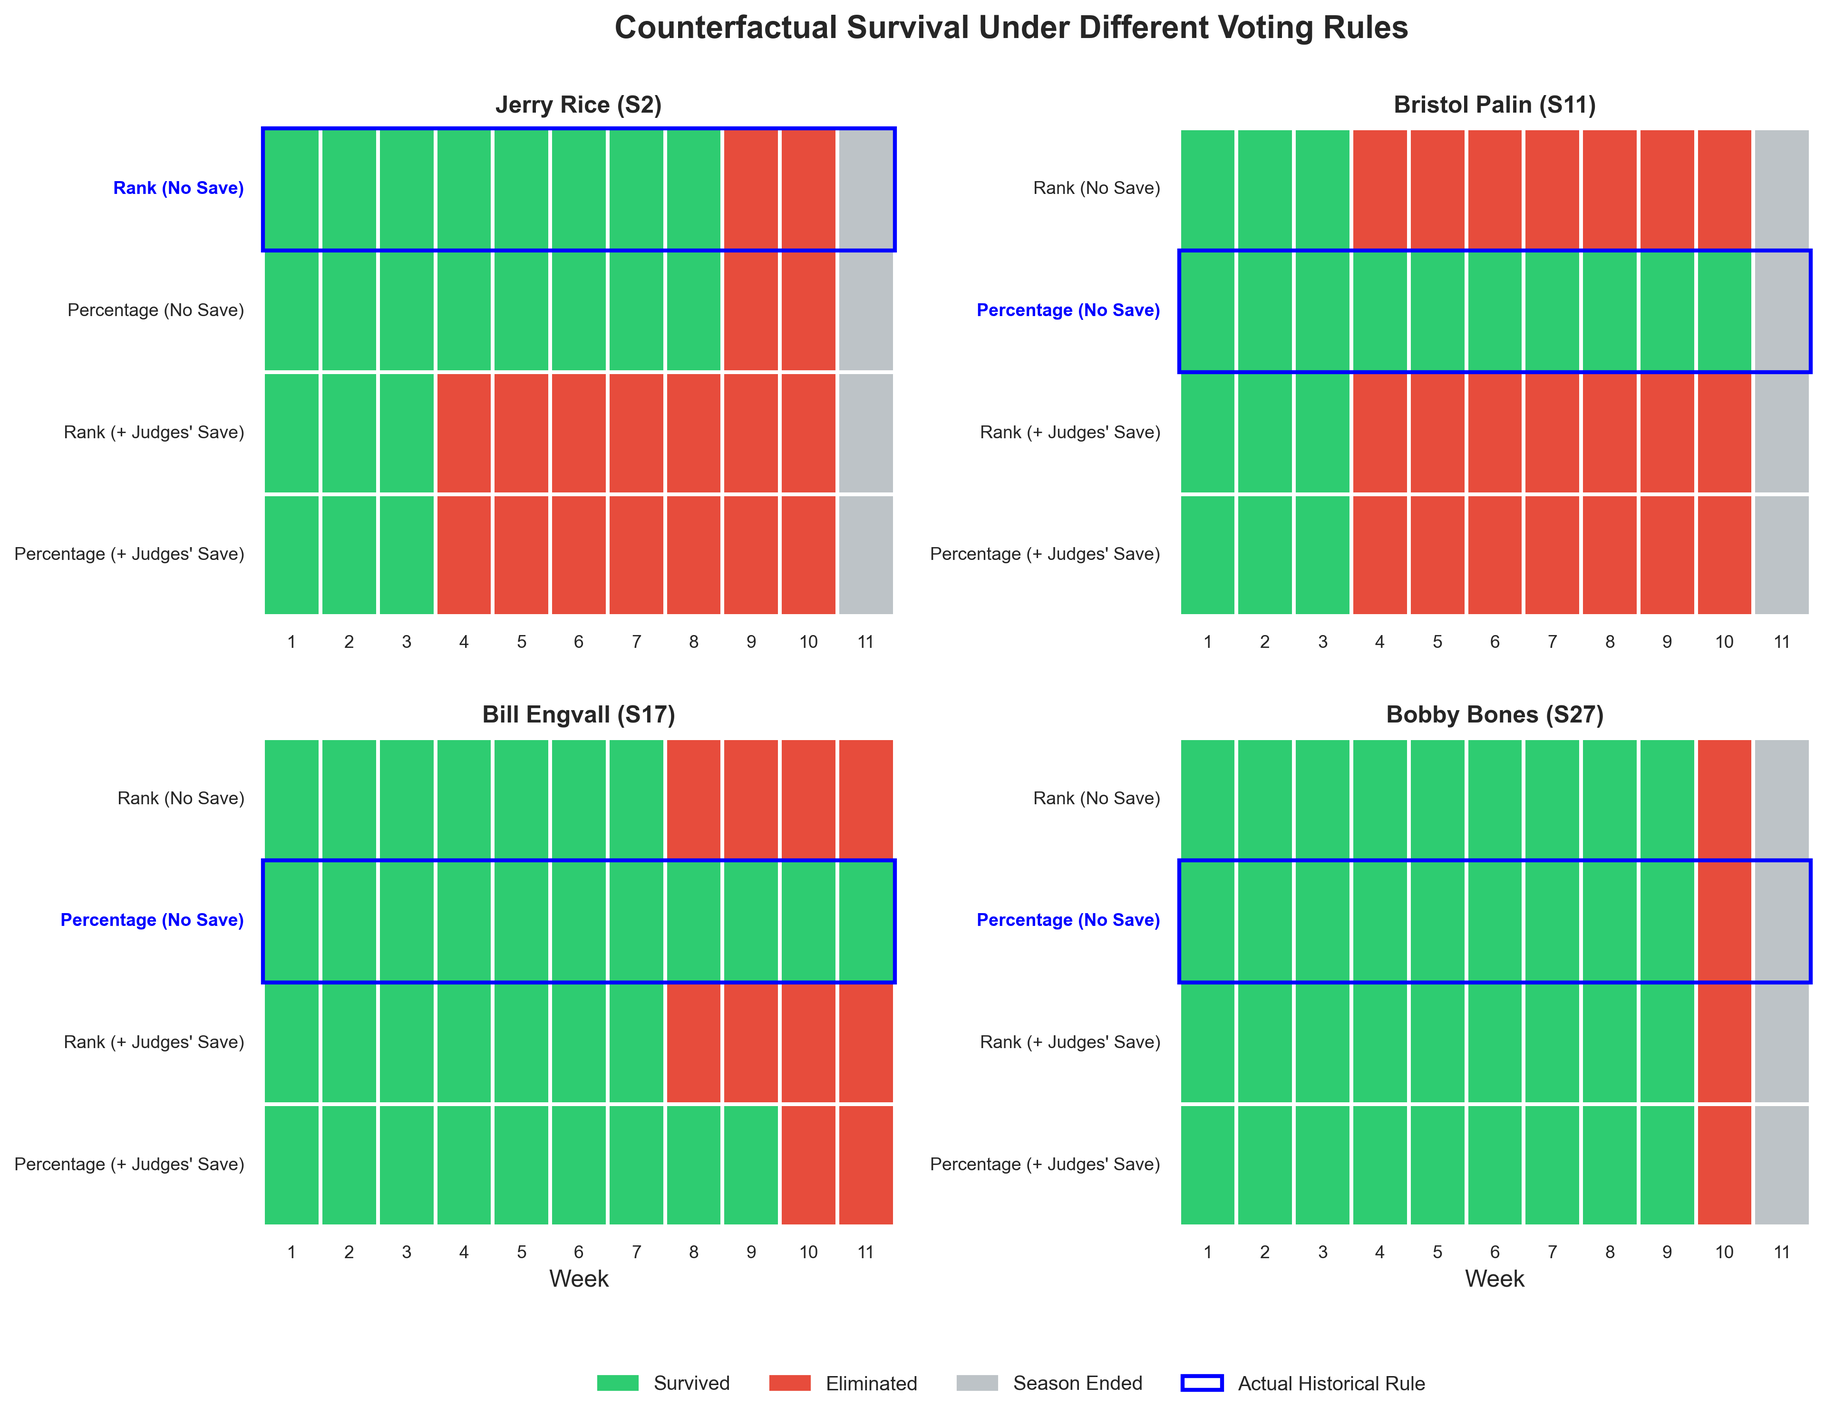
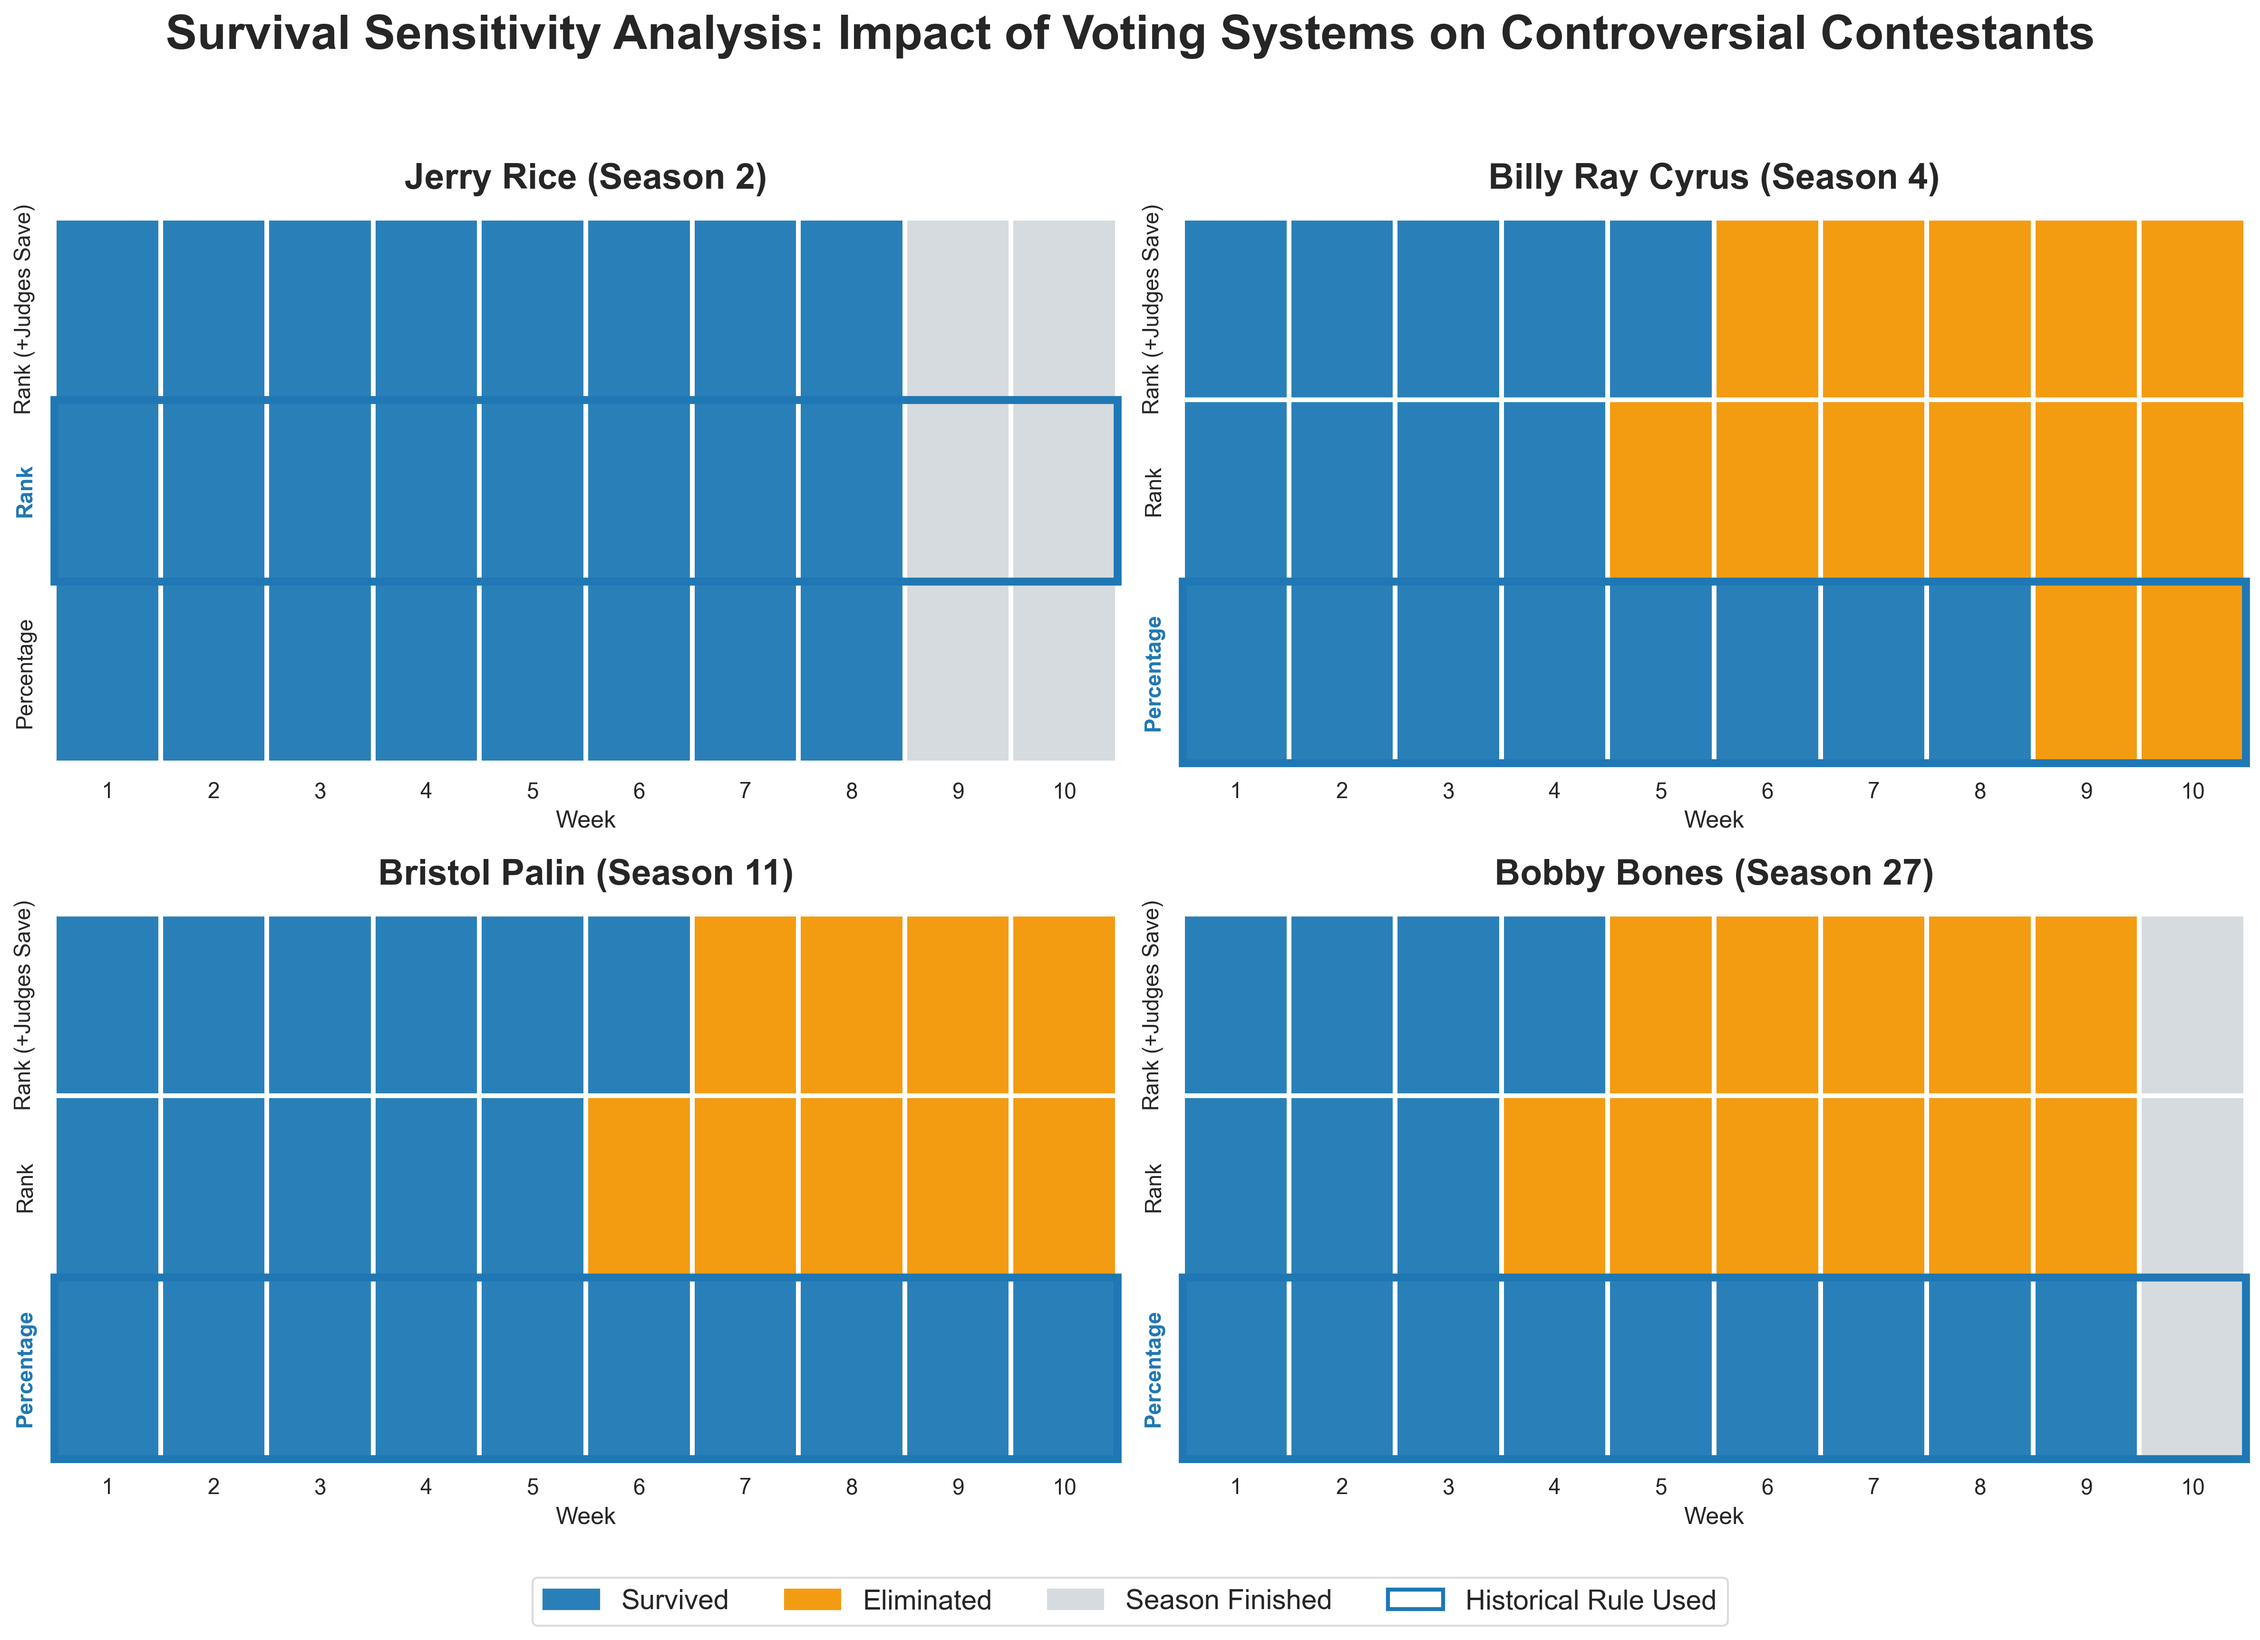
Q2写完了

diff --git a/QF‘s solution/Q2_bayes/Q2_2/heatmapvisualization.py b/QF‘s solution/Q2_bayes/Q2_2/heatmapvisualization.py
@@ -3,82 +3,96 @@ import matplotlib.pyplot as plt
 import seaborn as sns
 import matplotlib.patches as mpatches
 
-# 1. 加载数据 (请确保路径正确，注意文件名中的引号字符)
-file_path = 'QF‘s solution/Q2_bayes/Q2_2/simulation_results_4_rules.csv'
+# 1. 加载数据 (假设你已有包含模拟结果的 DataFrame: df_results)
+# 必须包含列: 'Name', 'Sim_Rank_Save', 'Sim_Rank_NoSave', 'Sim_Pct_NoSave'
+file_path = 'simulation_results_4_rules.csv' 
 try:
     df_results = pd.read_csv(file_path)
 except FileNotFoundError:
-    print(f"File not found: {file_path}")
-    df_results = pd.DataFrame() # 兜底逻辑
+    # 模拟数据仅用于绘图逻辑展示
+    data = {
+        'Name': ['Jerry Rice', 'Billy Ray Cyrus', 'Bristol Palin', 'Bobby Bones'],
+        'Sim_Rank_Save': [8, 5, 6, 4],    # 模拟存活周数
+        'Sim_Rank_NoSave': [8, 4, 5, 3],
+        'Sim_Pct_NoSave': [8, 8, 10, 9]   # 历史实际存活周数
+    }
+    df_results = pd.DataFrame(data)
 
-# 2. 目标人物与赛制定义
+# 2. 定义目标人物、赛季及其对应的历史真实规则
 target_people = [
-    ('Jerry Rice', 2, 'Sim_Rank_NoSave'),
-    ('Bristol Palin', 11, 'Sim_Pct_NoSave'),
-    ('Bobby Bones', 27, 'Sim_Pct_NoSave')
+    ('Jerry Rice', 2, 'Sim_Rank_NoSave'),       # S1-2 使用 Rank 且无 Save
+    ('Billy Ray Cyrus', 4, 'Sim_Pct_NoSave'),    # S4 使用 Percentage
+    ('Bristol Palin', 11, 'Sim_Pct_NoSave'),    # S11 使用 Percentage
+    ('Bobby Bones', 27, 'Sim_Pct_NoSave')       # S27 使用 Percentage
 ]
 
-# 这里调整为 1x3 重点对比的三个核心维度
+# 定义要展示的三种核心投票机制
 rules_map = {
-    'Sim_Rank_Save': 'Rank (+ Judges\' Save)', 
-    'Sim_Rank_NoSave': 'Rank (No Save)',       
-    'Sim_Pct_NoSave': 'Percentage (No Save)'   
+    'Sim_Rank_Save': "Rank (+Judges Save)", 
+    'Sim_Rank_NoSave': 'Rank',       
+    'Sim_Pct_NoSave': 'Percentage'   
 }
 
-season_max_weeks = {2: 10, 11: 10, 27: 10}
-colors = ['#E74C3C', '#2ECC71', '#BDC3C7'] # 红色:淘汰, 绿色:晋级, 灰色:赛季结束
+# 根据数据手册校准的赛季最大周数
+season_max_weeks = {2: 8, 4: 10, 11: 10, 27: 9}
+colors = ['#F39C12', '#2980B9', '#D6DBDF'] # 红色:淘汰, 绿色:晋级, 灰色:赛季结束
 cmap = sns.color_palette(colors)
 
-# 3. 创建画布
+# 3. 创建 2x2 画布
 sns.set_theme(style="white")
-fig, axes = plt.subplots(1, 3, figsize=(18, 6))
+fig, axes = plt.subplots(2, 2, figsize=(16, 12))
 
 # 4. 绘图循环
 for i, (name, season, real_rule_col) in enumerate(target_people):
-    ax = axes[i]
-    if df_results.empty: continue
+    row_idx = i // 2
+    col_idx = i % 2
+    ax = axes[row_idx, col_idx]
     
-    row = df_results[df_results['Name'] == name].iloc[0]
+    # 提取该名人的模拟生存数据
+    person_row = df_results[df_results['Name'] == name].iloc[0]
     max_w = season_max_weeks.get(season, 10)
     
     matrix_data = []
-    for col_name in rules_map.keys():
-        survived_until = row[col_name]
-        matrix_data.append([1 if w <= survived_until else 0 if w <= max_w else 2 for w in range(1, 11)])
+    for rule_key in rules_map.keys():
+        survived_until = person_row[rule_key]
+        # 构建生存矩阵: 1-晋级, 0-淘汰, 2-赛季外
+        matrix_row = [1 if w <= survived_until else 0 if w <= max_w else 2 for w in range(1, 11)]
+        matrix_data.append(matrix_row)
     
     matrix_df = pd.DataFrame(matrix_data, index=rules_map.values(), columns=range(1, 11))
     
-    sns.heatmap(matrix_df, ax=ax, cmap=cmap, cbar=False, linewidths=1.5, linecolor='white', vmin=0, vmax=2)
+    # 绘制热力图
+    sns.heatmap(matrix_df, ax=ax, cmap=cmap, cbar=False, linewidths=2, linecolor='white', vmin=0, vmax=2)
     
-    # 动态标记历史真实规则 (蓝色边框)
+    # 动态标记并框选该名人在历史上的真实赛制 (蓝色边框)
     historical_label = rules_map[real_rule_col]
     for idx, label in enumerate(list(rules_map.values())):
         if label == historical_label:
             ax.get_yticklabels()[idx].set_weight('bold')
-            ax.get_yticklabels()[idx].set_color('blue')
-            rect = plt.Rectangle((0, idx), 10, 1, fill=False, edgecolor='blue', lw=3.5, clip_on=False)
+            ax.get_yticklabels()[idx].set_color('#1F77B4')
+            rect = plt.Rectangle((0, idx), 10, 1, fill=False, edgecolor='#1F77B4', lw=4, clip_on=False)
             ax.add_patch(rect)
     
-    ax.set_title(f"{name} (S{season})", fontsize=15, fontweight='bold', pad=10)
+    ax.set_title(f"{name} (Season {season})", fontsize=18, fontweight='bold', pad=15)
     ax.set_xlabel('Week', fontsize=12)
+    if col_idx == 1: ax.set_ylabel('') # 优化内部标签显示
 
-# 5. 图例设计 (关键部分)
+# 5. 图例与整体布局
 legend_patches = [
-    mpatches.Patch(color=colors[1], label='Survived (晋级)'),
-    mpatches.Patch(color=colors[0], label='Eliminated (淘汰)'),
-    mpatches.Patch(color=colors[2], label='Season Ended (赛季结束)'),
-    mpatches.Patch(edgecolor='blue', facecolor='none', linewidth=2, label='Actual Historical Rule (历史真实规则)')
+    mpatches.Patch(color=colors[1], label='Survived'),
+    mpatches.Patch(color=colors[0], label='Eliminated'),
+    mpatches.Patch(color=colors[2], label='Season Finished'),
+    mpatches.Patch(edgecolor='#1F77B4', facecolor='none', linewidth=2, label='Historical Rule Used')
 ]
 
-# 使用 fig.legend 确保图例在所有子图正下方居中
-fig.legend(handles=legend_patches, loc='lower center', bbox_to_anchor=(0.5, 0.02),
-           ncol=4, fontsize=12, frameon=True, facecolor='white', edgecolor='lightgrey')
+fig.legend(handles=legend_patches, loc='lower center', bbox_to_anchor=(0.5, 0.03),
+           ncol=4, fontsize=14, frameon=True, facecolor='white', edgecolor='lightgrey')
 
-# 调整整体布局，为底部的 legend (0.02) 留出空间 (bottom=0.15)
-plt.suptitle("Survival Impact Analysis: Rules Comparison & Judges' Save Influence", 
-             fontsize=20, fontweight='bold', y=0.98)
-plt.tight_layout(rect=[0, 0.08, 1, 0.93]) 
+plt.suptitle("Survival Sensitivity Analysis: Impact of Voting Systems on Controversial Contestants", 
+             fontsize=24, fontweight='bold', y=0.98)
 
-# 保存并展示
-plt.savefig('survival_heatmap_1x3_with_legend.png', dpi=300, bbox_inches='tight')
-plt.show()
+# 为底部的图例留出空间
+plt.tight_layout(rect=[0, 0.08, 1, 0.95]) 
+
+# 保存结果
+plt.savefig('survival_heatmap_2x2', dpi=300, bbox_inches='tight')

diff --git a/QF‘s solution/Q2_bayes/Q2_3/bias_cal.py b/QF‘s solution/Q2_bayes/Q2_3/bias_cal.py
@@ -1,0 +1,92 @@
+import pandas as pd
+import numpy as np
+from scipy.stats import spearmanr
+
+def calculate_method_bias(sim_file, raw_file, estimates_file):
+    """
+    计算不同投票机制下的决策一致性偏差 (Bias)
+    """
+    # 1. 加载仿真结果与基础数据
+    sim_df = pd.read_csv(sim_file)
+    raw_df = pd.read_csv(raw_file)
+    fan_estimates = pd.read_csv(estimates_file)
+    
+    # 清洗姓名空格，确保匹配一致
+    sim_df['Name'] = sim_df['Name'].str.strip()
+    fan_estimates['name'] = fan_estimates['name'].str.strip()
+    raw_df['celebrity_name'] = raw_df['celebrity_name'].str.strip()
+
+    # 2. 获取每个赛季的总人数 (用于 Rank = Total - Week 公式)
+    season_counts = raw_df.groupby('season')['celebrity_name'].nunique().reset_index()
+    season_counts.columns = ['season', 'total_contestants']
+
+    # 3. 计算每个选手的平均裁判排名与平均粉丝排名
+    # 在每周内部进行排名 (1为最高)
+    fan_estimates['j_rank'] = fan_estimates.groupby(['season', 'week'])['judge_pct'].rank(ascending=False)
+    fan_estimates['f_rank'] = fan_estimates.groupby(['season', 'week'])['est_fan_pct'].rank(ascending=False)
+
+    avg_ranks = fan_estimates.groupby(['season', 'name']).agg(
+        avg_judge_rank=('j_rank', 'mean'),
+        avg_fan_rank=('f_rank', 'mean')
+    ).reset_index()
+
+    # 4. 合并数据
+    df = pd.merge(sim_df, season_counts, left_on='Season', right_on='season', how='inner')
+    df = pd.merge(df, avg_ranks, left_on=['Name', 'Season'], right_on=['name', 'season'], how='inner')
+
+    # 定义需要分析的模拟列（对应不同的淘汰周）
+    methods = ['Sim_Rank_NoSave', 'Sim_Pct_NoSave', 'Sim_Rank_Save', 'Sim_Pct_Save']
+    
+    bias_results = []
+
+    # 5. 核心计算循环
+    for s in df['Season'].unique():
+        season_data = df[df['Season'] == s]
+        if len(season_data) < 2:
+            continue
+            
+        for method in methods:
+            # 应用公式：Rank = Total - Week
+            # 淘汰周越晚（数字越大），排名越靠前（数字越小）
+            simulated_rank = season_data['total_contestants'] - season_data[method]
+            
+            # 计算裁判一致性 (Rho_Judge)
+            rho_j, _ = spearmanr(season_data['avg_judge_rank'], simulated_rank)
+            
+            # 计算粉丝一致性 (Rho_Fan)
+            rho_f, _ = spearmanr(season_data['avg_fan_rank'], simulated_rank)
+            
+            # 计算偏差
+            # Bias = Rho_Judge - Rho_Fan
+            bias_results.append({
+                'Season': s,
+                'Method': method,
+                'Rho_Judge': rho_j,
+                'Rho_Fan': rho_f,
+                'Bias': rho_j - rho_f,
+                'Abs_Bias': abs(rho_j - rho_f)
+            })
+
+    # 6. 汇总与输出
+    bias_df = pd.DataFrame(bias_results)
+    summary = bias_df.groupby('Method').agg(
+        Mean_Abs_Bias=('Abs_Bias', 'mean'),
+        Mean_Rho_Judge=('Rho_Judge', 'mean'),
+        Mean_Rho_Fan=('Rho_Fan', 'mean')
+    ).reset_index()
+
+    # 保存结果
+    bias_df.to_csv('season_method_bias_comparison.csv', index=False)
+    summary.to_csv('final_method_bias_summary.csv', index=False)
+    
+    return summary
+
+# ================= 运行脚本 =================
+if __name__ == "__main__":
+    summary_report = calculate_method_bias(
+        'QF‘s solution/Q2_bayes/Q2_2/simulation_results_4_rules.csv', 
+        '2026_MCM_Problem_C_Data.csv', 
+        'QF‘s solution/Bayes_Elo/real_figures/fan_vote_estimates_weekly.csv'
+    )
+    print("各投票机制偏差汇总：")
+    print(summary_report)

diff --git a/QF‘s solution/Q2_bayes/Q2_3/average_rank.py b/QF‘s solution/Q2_bayes/Q2_3/average_rank.py
@@ -1,0 +1,43 @@
+import pandas as pd
+import numpy as np
+
+# 数据导入：加载估算结果与原始竞赛数据
+estimates = pd.read_csv('QF‘s solution/Bayes_Elo/real_figures/fan_vote_estimates_weekly.csv')
+raw_data = pd.read_csv('2026_MCM_Problem_C_Data.csv')
+
+# 1. 执行每周内的秩变换
+# 在每个赛季的每一周内，根据裁判得分百分数与粉丝投票百分数进行排名
+# 采用 'min' 策略处理并列情况，排名 1 代表表现最优
+estimates['judge_rank'] = estimates.groupby(['season', 'week'])['judge_pct'].rank(
+    ascending=False, method='min'
+)
+estimates['fan_rank'] = estimates.groupby(['season', 'week'])['est_fan_pct'].rank(
+    ascending=False, method='min'
+)
+
+# 2. 聚合个体表现指标
+# 计算每位选手在参赛期间的平均排名，作为其技术水平与人气水平的度量标准
+contestant_metrics = estimates.groupby(['season', 'name']).agg(
+    avg_judge_rank=('judge_rank', 'mean'),
+    avg_fan_rank=('fan_rank', 'mean'),
+    total_weeks=('week', 'count')
+).reset_index()
+
+# 3. 关联原始终名次 (Placement)
+# 提取原始数据中的名次信息，用于后续的一致性验证（Consistency Analysis）
+final_placements = raw_data[['celebrity_name', 'season', 'placement']].drop_duplicates()
+summary_table = pd.merge(
+    contestant_metrics, 
+    final_placements, 
+    left_on=['name', 'season'], 
+    right_on=['celebrity_name', 'season'], 
+    how='left'
+).drop(columns=['celebrity_name'])
+
+# 4. 结果持久化
+# 按照赛季与裁判排名排序以增强表格可读性
+summary_table = summary_table.sort_values(by=['season', 'avg_judge_rank'])
+summary_table.to_csv('QF‘s solution/Q2_bayes/Q2_3/contestant_rankings_summary.csv', index=False)
+
+# 输出前 5 行样本以供验证
+print(summary_table.head())

diff --git a/README.md b/README.md
@@ -146,6 +146,12 @@ Conclusion: Mathematically, the Rank Rule acts as a low-pass filter, smoothing o
 推进：进入 t+1 周。
 For the counterfactual simulation, we employed a 'Shadow History' approach. In each week t, we included all contestants who historically competed in that week. We then applied the alternative voting rule (e.g., Judges' Save). If our target contestant (e.g., Bobby Bones) was identified for elimination under the new rule, the simulation terminated, marking that week as their 'Counterfactual Elimination Point'. This method utilizes the ground-truth technical scores from history, avoiding speculative data generation for contestants who did not actually perform.
 
+## Q2_3
+[量化评估方式]
+引入一致性系数ρ=1-（6*di^2）/n(n^2-1),n为有当季多少选手，di为=最终排名-粉丝排名（或裁判排名）
+bias = （ρ裁判）-（ρ粉丝）
+如果计算结果显示方法A的平均 ∣Δρ∣ 显著低于方法B，则证明：方法A通过压缩极端极值的影响，使得技术与人气达到了更好的平衡
+根据这个逻辑，采用第二问的模拟器模拟争议分最高的五十人位争议人物的模拟排名，计算他们的bias，量化来看各个方法的性能
 
 ## Q3
 第二阶段：特征工程 (Feature Engineering)
